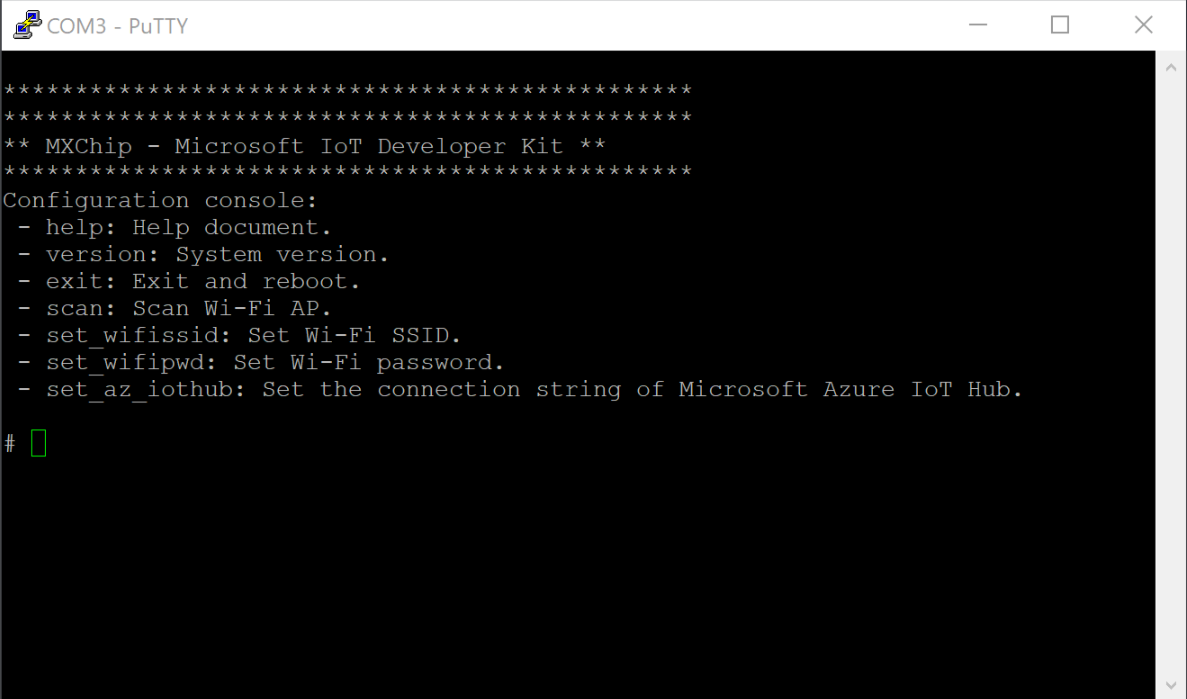
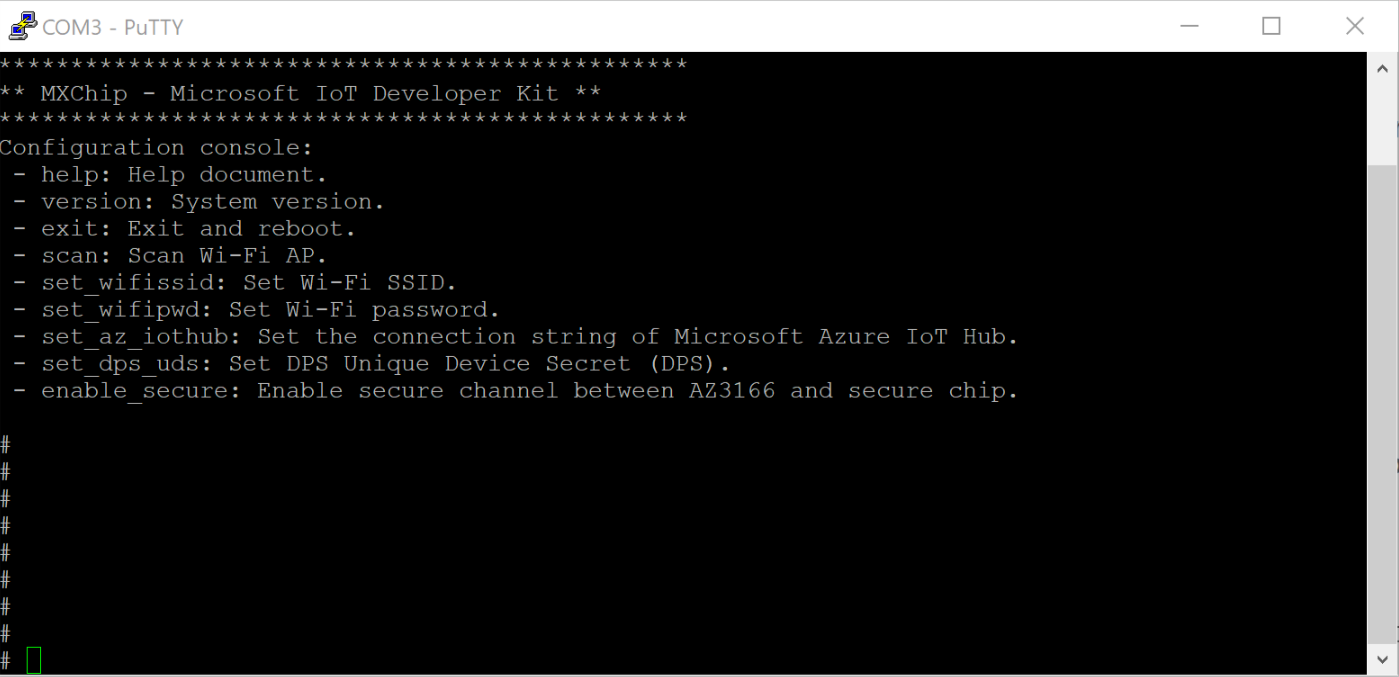
Instructions of using serial monitor

Changed region(s): [[0.0, 0.0, 1.0, 1.0], [0.7793, 0.5273, 0.8416, 0.5894]]

diff --git a/docs/_docs/05-use-configuration-mode.md b/docs/_docs/05-use-configuration-mode.md
@@ -10,17 +10,17 @@ last_modified_at: 2018-01-08
 ## Before you begin
 
 * Connect DevKit to the computer.
+* Download SSH and Telnet client like [Putty](https://www.chiark.greenend.org.uk/~sgtatham/putty/latest.html) for Windows.
 
 ## Enter Configuration Mode
 
 1. Open VS Code and identify the COM port on the status bar.
     ![COM Port]({{"/assets/images/how-to/configuration-mode/com-port.png" | absolute_url }})
 
-2. Download and open [Putty](https://www.chiark.greenend.org.uk/~sgtatham/putty/latest.html), type the right COM port and **115200** for **Speed**.
+2. Download and open Putty, type the right COM port and **115200** for **Speed**.
     ![Putty]({{"/assets/images/how-to/configuration-mode/putty.png" | absolute_url }})
 
 3. Click **Open**. A serial monitor window will open.
-    ![Serial Monitor]({{"/assets/images/how-to/configuration-mode/serial-monitor.png" | absolute_url }})
 
 4. On the device, hold down button A, then push and release the reset button. Observe the screen displays your device MAC address and **'Configuration'**.
     ![Configuration Mode]({{"/assets/images/how-to/configuration-mode/configuration-mode.jpg" | absolute_url }})
@@ -34,17 +34,33 @@ Commands for the DevKit Configuration Mode.
 
 ### help
 
+```bash
+help
+```
+
 Display the commands list
 
 ### version
+
+```bash
+version
+```
 
 Display **DevKit SDK**, **Mico**, **mbed-os**, **mbed TLS lib** and **WiFi lib** version details.
 
 ### exit
 
+```bash
+exit
+```
+
 Exit Configuration Mode and reboot into normal mode.
 
 ### scan
+
+```bash
+scan
+```
 
 Scan and list all available WiFi SSID.
 
@@ -63,4 +79,27 @@ set_wifipwd [password]
 ```
 
 Set password for WiFi SSID you connected with command **set_wifissid**.
+
+### set_az_iothub
+
+```bash
+set_az_iothub [device connection string]
+```
+
+Set device connection string for Azur IoT Hub. View [Understand Different Connection Strings in Azure IoT Hub](https://blogs.msdn.microsoft.com/iotdev/2017/05/09/understand-different-connection-strings-in-azure-iot-hub/) to learn more.
+
+### set_dps_uds
+
+```bash
+set_dps_uds [unique device secret]
+```
+
+Set Unique Device Secret that is used as device unique key to be used for calcuation by [Device Identifier Composition Engine (DICE)](https://trustedcomputinggroup.org/work-groups/dice-architectures/) and be used to register on [IoT Hub Device Provisioning Service](https://docs.microsoft.com/en-us/azure/iot-dps/about-iot-dps).
+
+### enable_secure
+
+```bash
+enable_secure
+```
+
 

diff --git a/docs/_docs/apis/13-EEPROMInterface.md b/docs/_docs/apis/13-EEPROMInterface.md
@@ -81,9 +81,9 @@ int enableHostSecureChannel(int level = 1, uint8_t* key = NULL);
 
 > Enable secure channel between AZ3166 and secure chip.
 > On function called, a key will be set to secure chip, meanwhile the key will be stored in flash of AZ3166.
-	* And this will automaticly encrypt all data in secure chip.
-	* Notice that do not drag-drop firmware after secure channel enabled.
-	* Drag-drop bin file may rewrite the flash with key and the data in zone can not be decrypted correctlly.
+> * And this will automaticly encrypt all data in secure chip.
+> * Notice that do not drag-drop firmware after secure channel enabled.
+> * Drag-drop bin file may rewrite the flash with key and the data in zone can not be decrypted correctlly.
 > #### Parameters
 > 
 > | Type | Name | Description |
